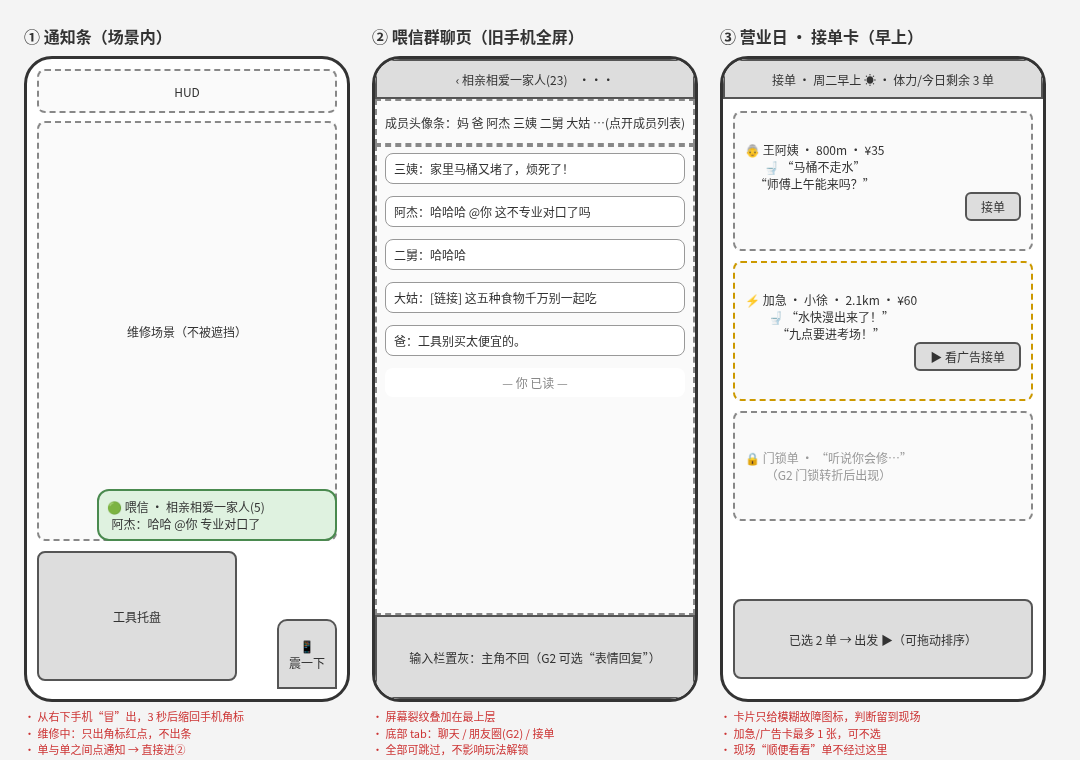
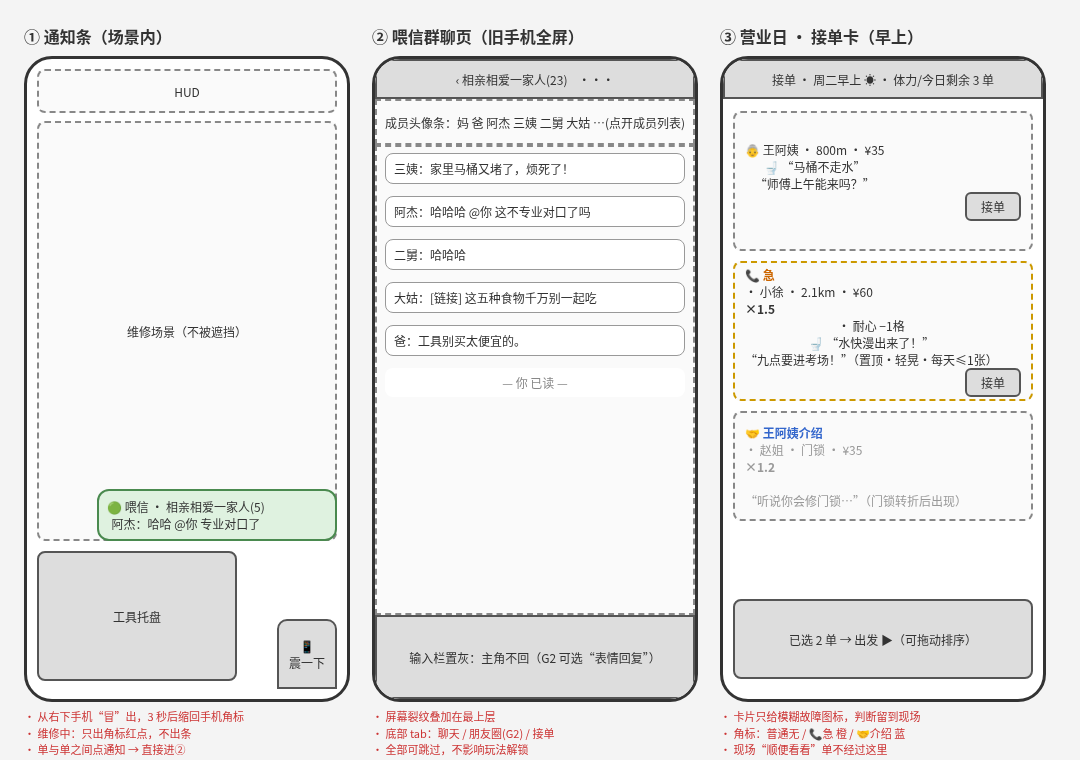
UI: 接单卡角标（来电急单/转介绍）

Changed region(s): [[0.6722, 0.3632, 0.9472, 0.5447], [0.6722, 0.5447, 0.8861, 0.6658], [0.6722, 0.9382, 0.825, 0.9987]]

diff --git a/design/ui/wf2.html b/design/ui/wf2.html
@@ -32,9 +32,9 @@ body{margin:0;background:#f4f4f4;font-family:"Noto Sans CJK SC","Noto Serif CJK 
 <div class="col"><h3>③ 营业日 · 接单卡（早上）</h3><div class="ph">
 <div class="b k" style="left:0;top:0;width:320px;height:40px;border-radius:0">接单 · 周二早上 ☀ · 体力/今日剩余 3 单</div>
 <div class="b" style="left:10px;top:52px;width:300px;height:140px;flex-direction:column;align-items:flex-start;padding:10px">👵 王阿姨 · 800m · ¥35<br>🚽 “马桶不走水”<br>“师傅上午能来吗？”<br><span style="align-self:flex-end;border:2px solid #555;padding:4px 14px;border-radius:6px;background:#ddd">接单</span></div>
-<div class="b" style="left:10px;top:202px;width:300px;height:140px;flex-direction:column;align-items:flex-start;padding:10px;border-color:#c90">⚡ 加急 · 小徐 · 2.1km · ¥60<br>🚽 “水快漫出来了！”<br>“九点要进考场！”<br><span style="align-self:flex-end;border:2px solid #555;padding:4px 14px;border-radius:6px;background:#ddd">▶ 看广告接单</span></div>
-<div class="b" style="left:10px;top:352px;width:300px;height:110px;flex-direction:column;align-items:flex-start;padding:10px;color:#999">🔒 门锁单 · “听说你会修…”<br>（G2 门锁转折后出现）</div>
+<div class="b" style="left:10px;top:202px;width:300px;height:140px;flex-direction:column;align-items:flex-start;padding:10px;border-color:#c90"><b style="color:#c60">📞 急</b> · 小徐 · 2.1km · ¥60 <b>×1.5</b> · 耐心 −1格<br>🚽 “水快漫出来了！”<br>“九点要进考场！”（置顶·轻晃·每天≤1张）<br><span style="align-self:flex-end;border:2px solid #555;padding:4px 14px;border-radius:6px;background:#ddd">接单</span></div>
+<div class="b" style="left:10px;top:352px;width:300px;height:110px;flex-direction:column;align-items:flex-start;padding:10px;color:#999"><b style="color:#36c">🤝 王阿姨介绍</b> · 赵姐 · 门锁 · ¥35 <b>×1.2</b><br>“听说你会修门锁…”（门锁转折后出现）</div>
 <div class="b k" style="left:10px;top:540px;width:300px;height:80px">已选 2 单 → 出发 ▶（可拖动排序）</div>
-</div><div class="n">· 卡片只给模糊故障图标，判断留到现场<br>· 加急/广告卡最多 1 张，可不选<br>· 现场“顺便看看”单不经过这里</div></div>
+</div><div class="n">· 卡片只给模糊故障图标，判断留到现场<br>· 角标：普通无 / 📞急 橙 / 🤝介绍 蓝<br>· 现场“顺便看看”单不经过这里</div></div>
 
 </div></body></html>
